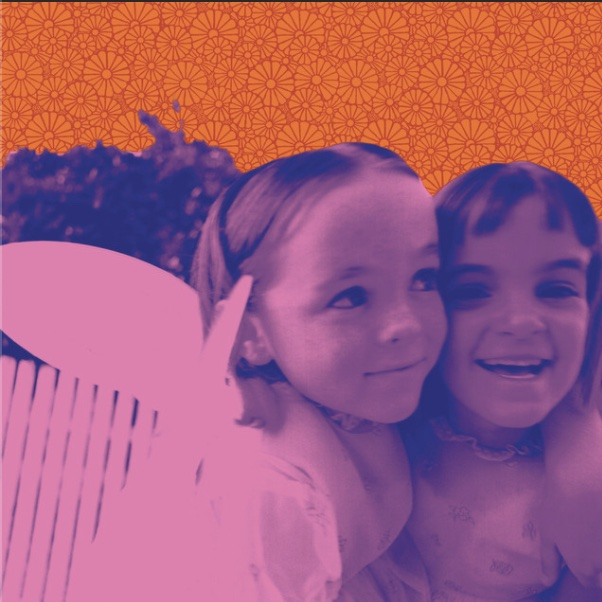
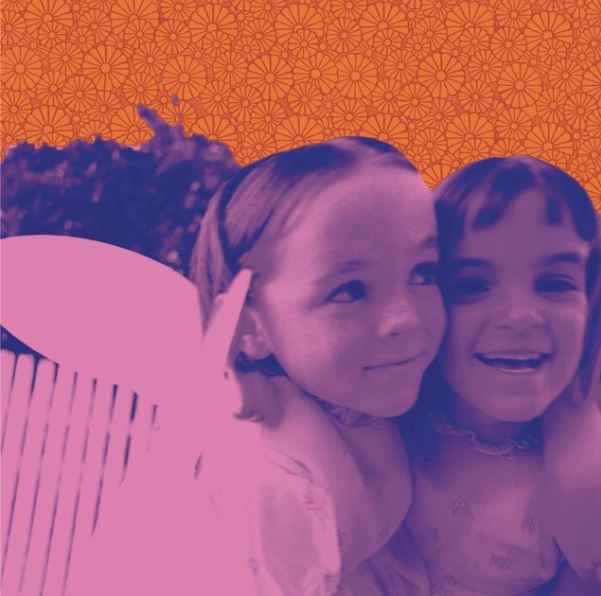
Add background color to demo

diff --git a/examples/index.html b/examples/index.html
@@ -5,11 +5,92 @@
 		
 	</title>
 </head>
+<style type="text/css">
+	html {
+		height:100%;
+
+	}
+	body {
+		width:100%;
+		height:100%;
+		background-color:black;
+	    background-blend-mode: screen;
+	}
+	.main {
+		width:80vw;
+		height:80vh;
+		padding-top:30vh;
+		display:block;
+		margin-left:auto;
+		margin-right:auto;
+	}
+	.main img {
+		display:block;
+		margin-left:auto;
+		margin-right:auto;
+
+	}
+
+</style>
 <body>
-	<!-- <img id="sp" src="sp.jpg" alt="siamese dream" width="300" height="300"> -->
-	<!-- <canvas id="spCanvas" width="4" height="4"></canvas> -->
-	<!-- <canvas id="myCanvas" width="500" height="500"></canvas> -->
+	<div class="main" id="main">
+		<!-- <img src="sp.jpg" alt="siamese dream" width="300" height="300"> -->
+		<img src="ultra.jpg" alt="ultraista" width="300" height="300">
+	</div>
 </body>
 <script type="text/javascript" src="../quantize.js"></script>
 <script type="text/javascript" src="../albers.js"></script>
+<script>
+
+
+var palette = getColors('ultra.jpg', 5);
+var bgString = setBGcolor(palette);
+var el = document.getElementById("main");
+el.style.background = bgString;
+
+drawPallete(palette);
+
+function drawPallete(newPalette){
+	var c = document.createElement('canvas');   
+	var main = document.getElementById('main');
+	c.width = 800;  
+	c.height = 200;  
+	main.appendChild(c);
+
+	for(var i = 0; i < newPalette.length; i++){
+		var ctx = c.getContext("2d");
+		ctx.beginPath();
+		ctx.arc(100+i*100, 75, 30, 0, 2 * Math.PI);
+		ctx.fillStyle = 'rgb('+newPalette[i]+')';
+		ctx.fill();
+	}
+}
+
+function setBGcolor(palette){
+	var bgString ='';
+	var pole = ['top', 'bottom'];
+	var direction = ['left', 'right'];
+	var j = 0;
+	for(var i = 0; i < palette.length; i++){
+		bgString+='linear-gradient(';
+		if(i > 0){
+			bgString+='to ' + pole[i%2] + ' ' + direction[j%2] + ', ';
+			j++
+		}
+		bgString+='rgb('
+		+ palette[i][0] + ','
+		+ palette[i][1] + ','
+		+ palette[i][2]
+		+ '), transparent)';
+		if (i !== palette.length - 1){
+			bgString+=','
+		}
+	}
+	return bgString;
+}
+ 
+
+ </script>
+
+
 </html>

diff --git a/albers.js b/albers.js
@@ -8,36 +8,20 @@
 
 getColors();
 
-function drawPallete(newPalette){
-	var c = document.createElement('canvas');   
-	// var c = document.getElementById("myCanvas");
-	c.width = 500;  
-	c.height = 200;  
-	document.body.appendChild(c);
-
-	for(var i = 0; i < newPalette.length; i++){
-		var ctx = c.getContext("2d");
-		ctx.beginPath();
-		ctx.arc(100+i*100, 75, 30, 0, 2 * Math.PI);
-		ctx.fillStyle = 'rgb('+newPalette[i]+')';
-		ctx.fill();
-	}
-}
-
-function getColors() {
+function getColors(imgSrc, amtColors) {
 
 	var myPixels = [];
 
 
 	var c = document.createElement('canvas');   
 	var ctx = c.getContext("2d");
-		document.body.appendChild(c);
+	// document.body.appendChild(c);
 
-	// var img = document.getElementById("sp");
 	var img = new Image;
-	img.src = 'sp.jpg'
+	img.src = imgSrc;
 	c.width = 120;
 	c.height = 120;
+	// c.style=
 	ctx.drawImage(img, 0, 0, c.width, c.height);
 	var imgData = ctx.getImageData(0, 0, c.width, c.height);
 
@@ -51,22 +35,10 @@ function getColors() {
 		myPixels.push([r, g, b]);
 	}
 
-	console.log(myPixels.length);
-
-	ctx.putImageData(imgData, 0, 0);
-
-
-	var maxColors = 2;
-
-
-
-	var cmap = quantize(myPixels, maxColors);
+	var amtColors = amtColors;
+	var cmap = quantize(myPixels, amtColors);
 	var newPalette = cmap.palette();
-	console.log(newPalette);
-	drawPallete(newPalette)
-	
-
-	return null;
 
 
+	return newPalette;
 }
